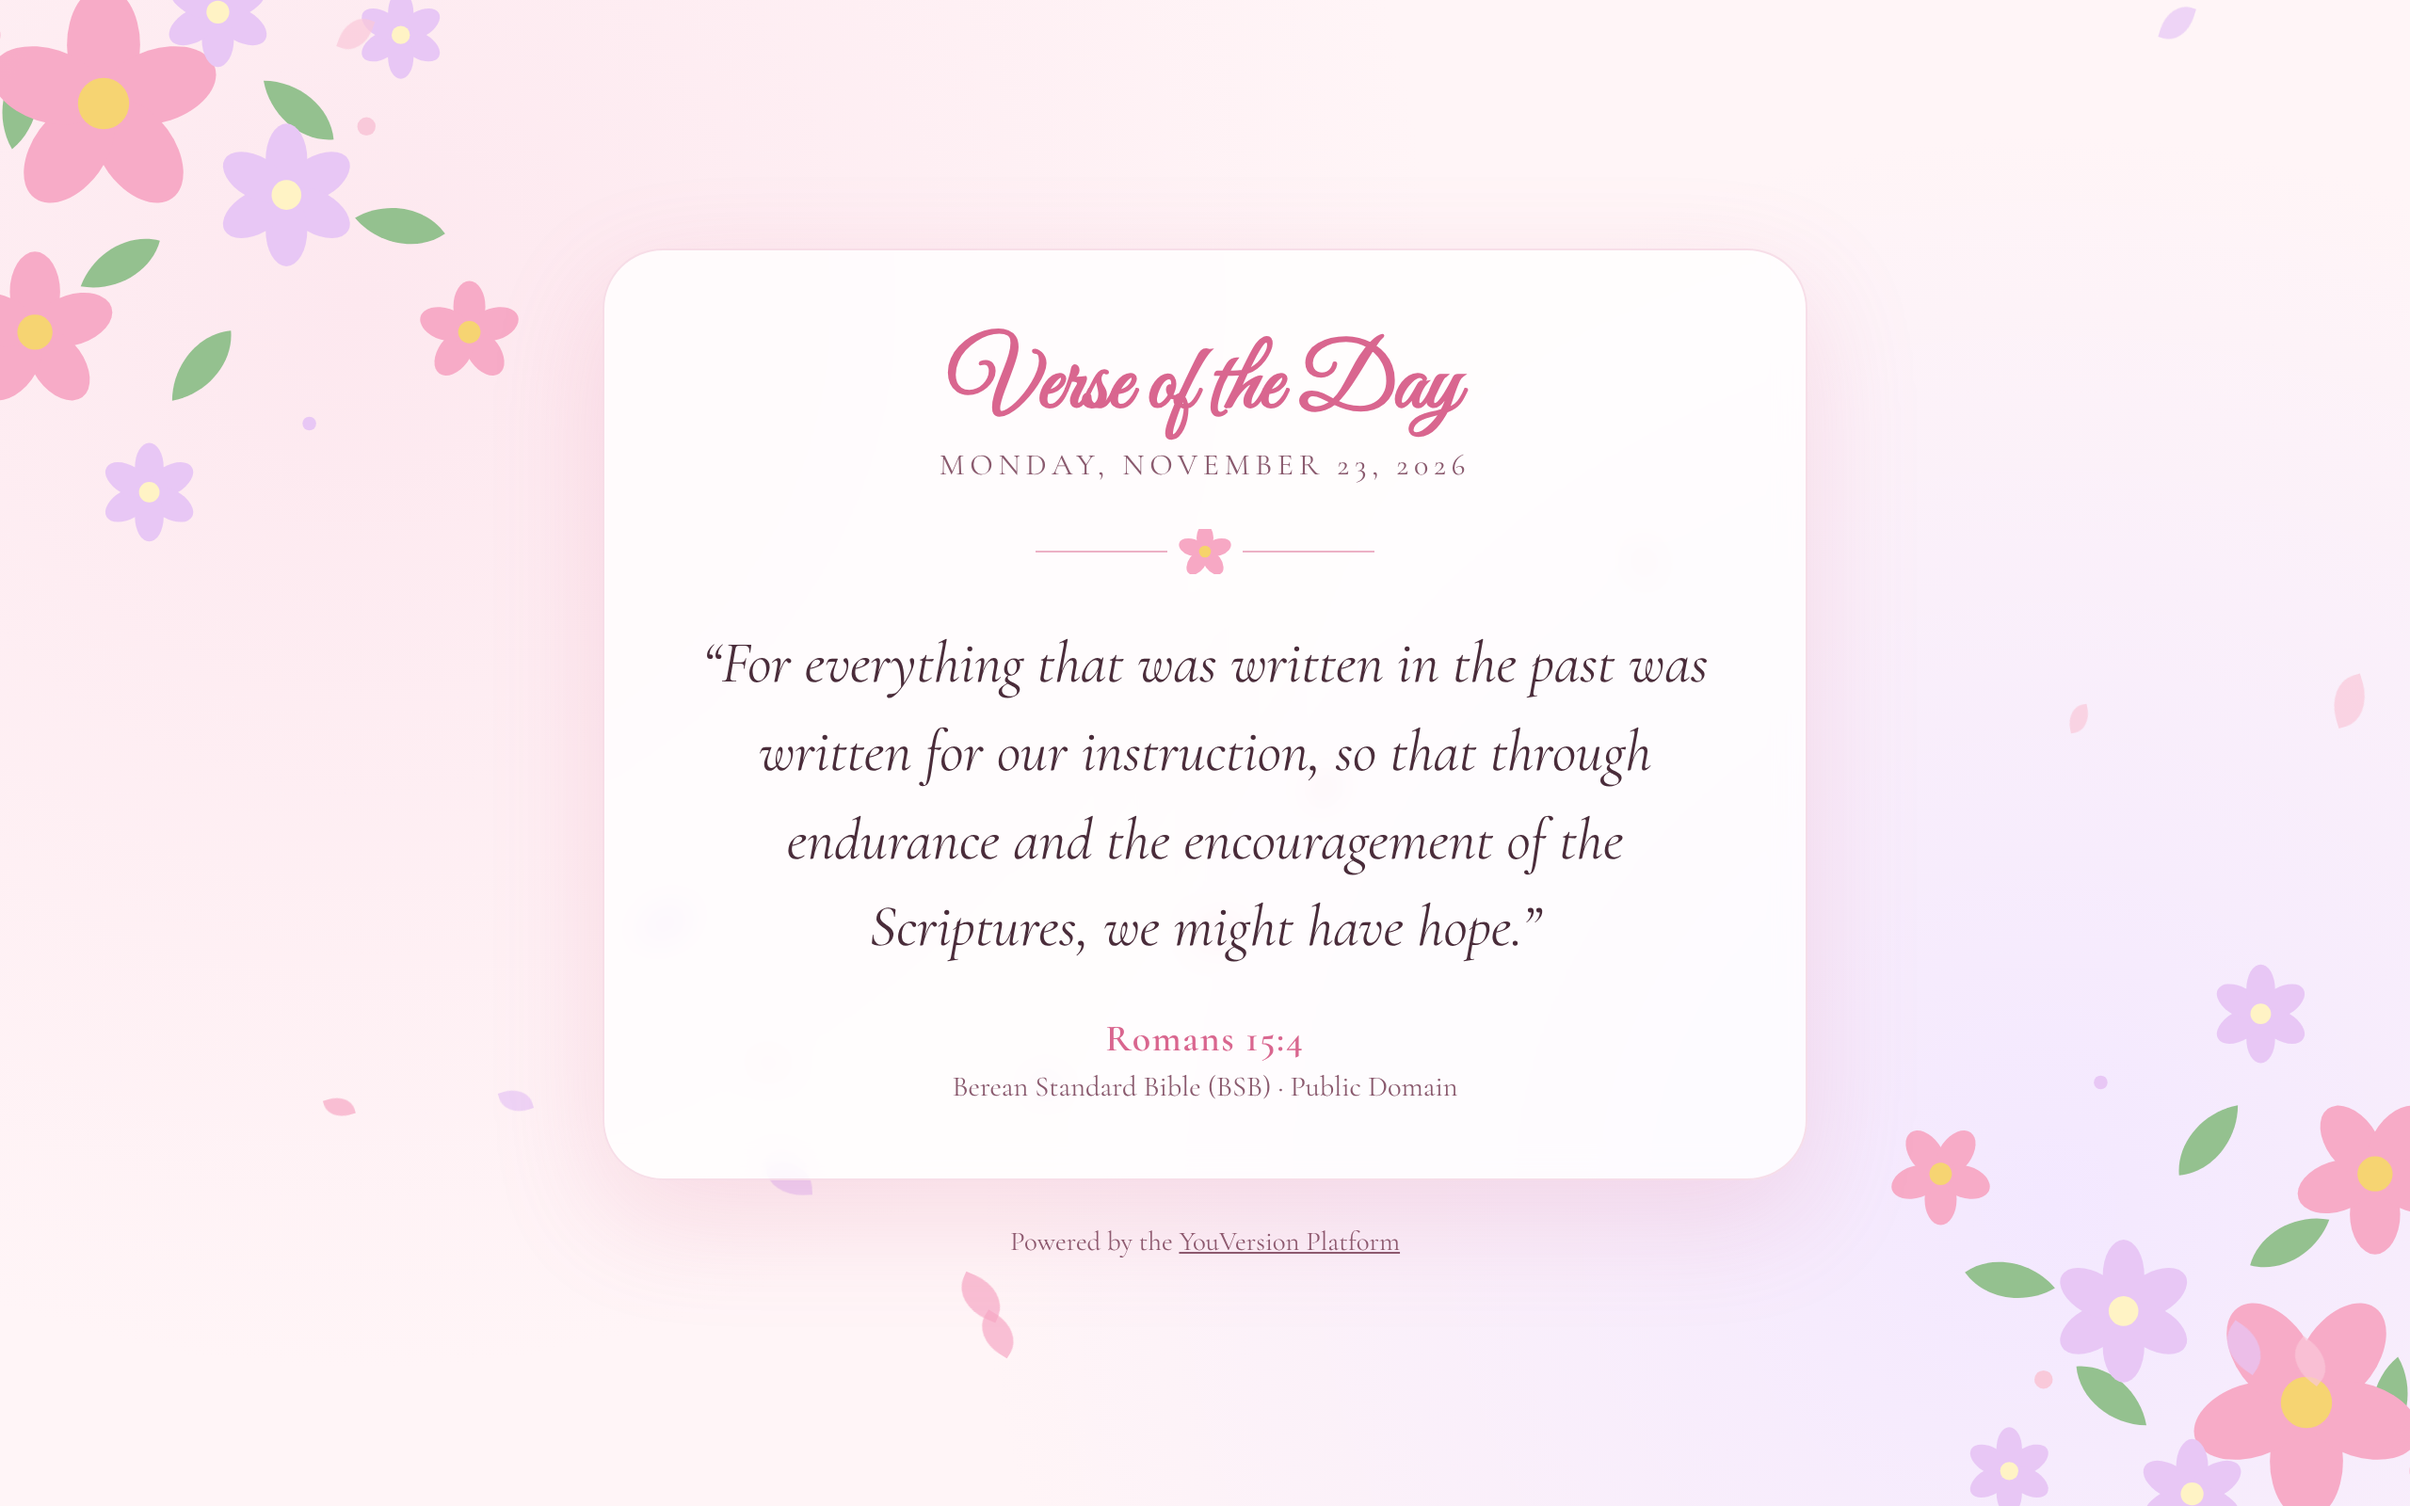
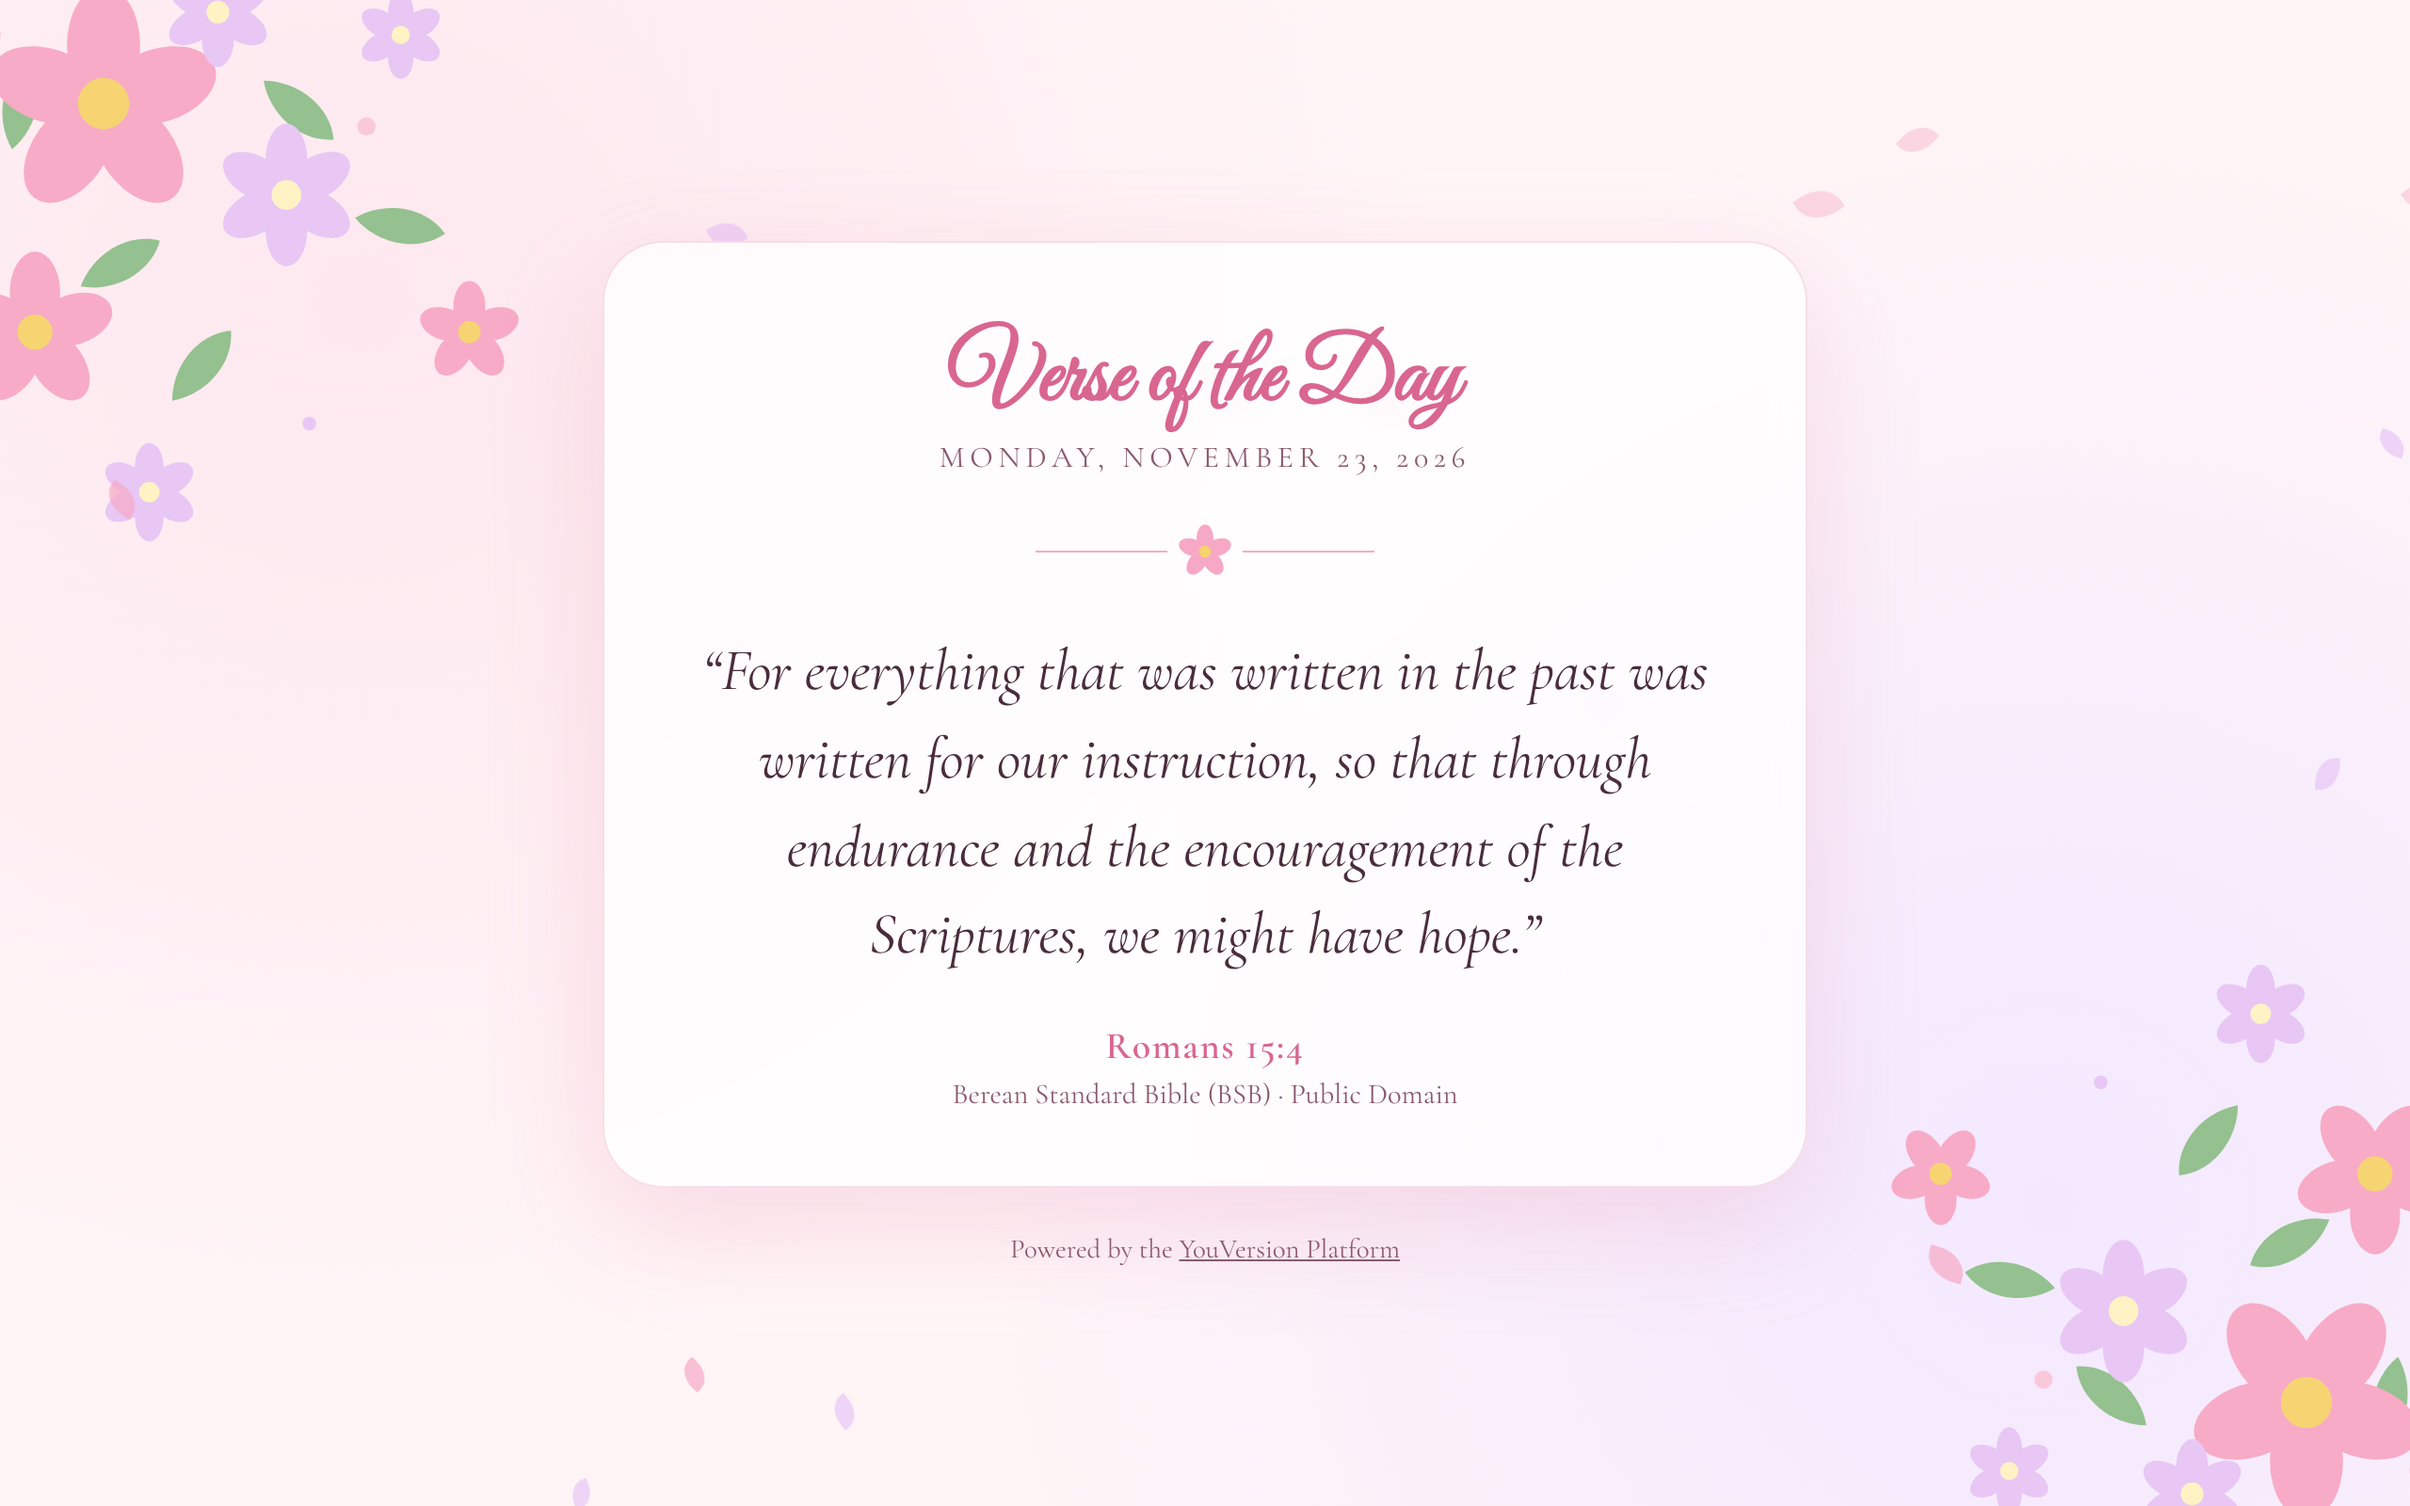
Fix clipped top petal on divider flower
Claude-Session: https://claude.ai/code/session_019AXxeUidhDhzwjrxFGLEqK

diff --git a/index.html b/index.html
@@ -128,7 +128,7 @@
       display: block;
       margin: 24px auto;
       width: 180px;
-      height: 24px;
+      height: 32px;
     }
 
     blockquote {
@@ -225,10 +225,10 @@
       <h1 class="eyebrow">Verse of the Day</h1>
       <p class="date" id="date"></p>
 
-      <svg class="divider" viewBox="0 0 180 24" aria-hidden="true">
-        <line x1="0" y1="12" x2="70" y2="12" stroke="var(--accent)" stroke-width="1" opacity="0.5"/>
-        <line x1="110" y1="12" x2="180" y2="12" stroke="var(--accent)" stroke-width="1" opacity="0.5"/>
-        <use href="#flower" transform="translate(90 12) scale(0.45)"/>
+      <svg class="divider" viewBox="0 0 180 32" aria-hidden="true">
+        <line x1="0" y1="16" x2="70" y2="16" stroke="var(--accent)" stroke-width="1" opacity="0.5"/>
+        <line x1="110" y1="16" x2="180" y2="16" stroke="var(--accent)" stroke-width="1" opacity="0.5"/>
+        <use href="#flower" transform="translate(90 16) scale(0.45)"/>
       </svg>
 
       <blockquote id="verse" class="loading">Gathering today’s verse…</blockquote>
